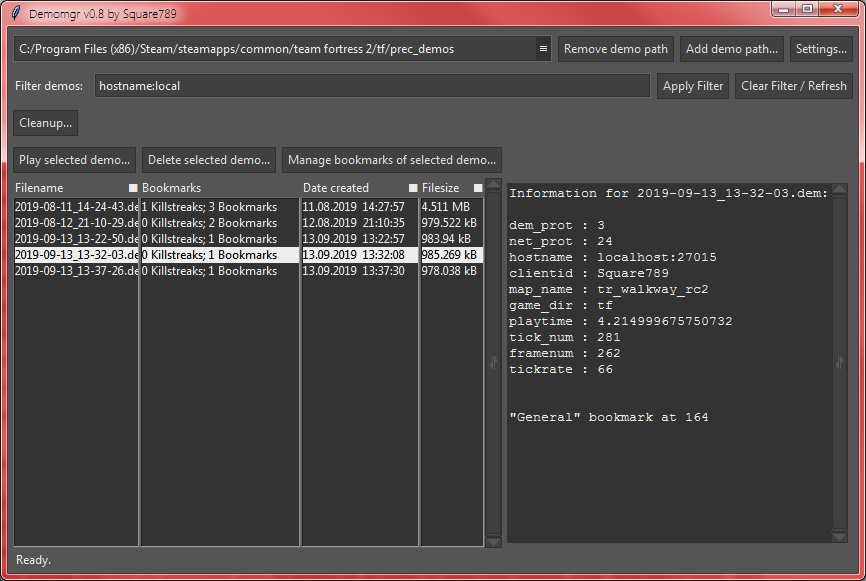
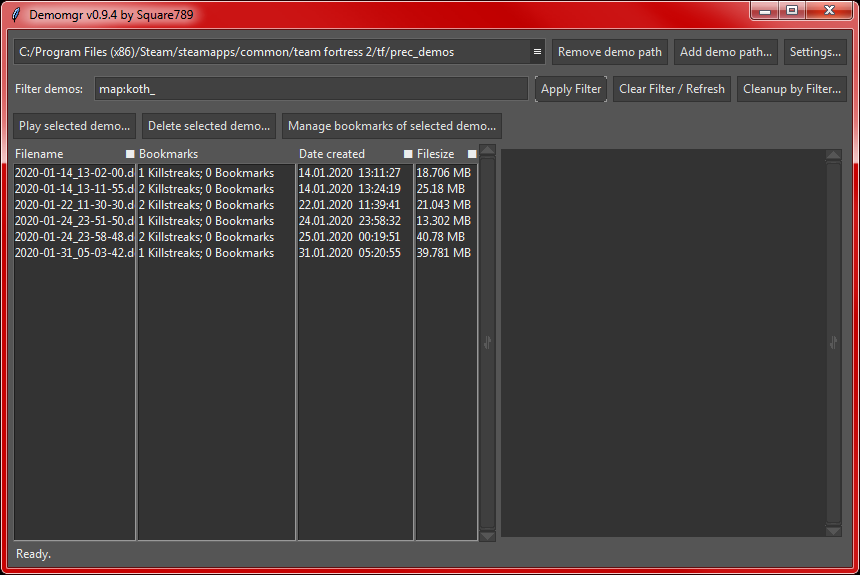
v0.9.4 - _events.txt fix
Fixed up documentation of threads
Some style fixes
Reading from _events.txt now works again
Added new image

Changed region(s): [[0.0, 0.0, 1.0, 1.0]]

diff --git a/source/threads/delete.py b/source/threads/delete.py
@@ -28,6 +28,7 @@ class ThreadDelete(_StoppableBaseThread):
 
 	def run(self):
 		evtpath = os.path.join(self.options["demodir"], CNST.EVENT_FILE)
+		tmpevtpath = os.path.join(self.options["demodir"], "." + CNST.EVENT_FILE)
 		errorsencountered = 0 #---Delete files
 		deletedfiles = 0
 		starttime = time.time()
@@ -44,53 +45,51 @@ class ThreadDelete(_StoppableBaseThread):
 				self.queue_out.put(("ConsoleInfo", "\nError deleting \"{}\": {} .".format(i, str(error))))
 	#-----------------------------------#
 		self.queue_out.put(("ConsoleInfo", "\n\nUpdating " + CNST.EVENT_FILE + "...")) #---Update eventfile; NOTE: NO CHECK FOR STOPREQUEST IN HERE; WILL ONLY ADD COMPLEXITY DUE TO HAVING TO CLOSE OPEN RESOURCES.
-		if os.path.exists(evtpath):
-			tmpevtpath = os.path.join(self.options["demodir"], "." + CNST.EVENT_FILE)
-			readeropen = False
-			writeropen = False
-			try:
-				reader = handle_ev.EventReader(evtpath, blocksz = self.options["cfg"]["evtblocksz"])
-				readeropen = True
-				writer = handle_ev.EventWriter(tmpevtpath, clearfile = True)
-				writeropen = True
-
-				if self.options["eventfileupdate"] == "passive":
-					while True: #NOTE: Could update those to be for loops, but I dont wanna break this
-						outchunk = next(reader)
-						regres = re.search(CNST.EVENTFILE_FILENAMEFORMAT, outchunk.content)
-						if regres: curchunkname = regres[0] + ".dem"
-						else: curchunkname = ""
-						if not curchunkname in self.options["filestodel"]:#create a new list of okay files or basically waste twice the time going through all the .json files?
-							writer.writechunk(outchunk)
-						if outchunk.message["last"]: break
-
-				elif self.options["eventfileupdate"] == "selectivemove":#Requires to have entire dir/actual files present in self.files;
-					okayfiles = set([j for i, j in enumerate(self.options["files"]) if not self.options["selected"][i]])
-					while True:
-						chunkexists = False
-						outchunk = next(reader)
-						regres = re.search(CNST.EVENTFILE_FILENAMEFORMAT, outchunk.content)
-						if regres: curchunkname = regres[0] + ".dem"
-						else: curchunkname = ""
-						if curchunkname in okayfiles:
-							okayfiles.remove(curchunkname)
-							chunkexists = True
-						if chunkexists:
-							writer.writechunk(outchunk)
-						if outchunk.message["last"]: break
-				reader.destroy()
-				writer.destroy()
-
-				os.remove(evtpath)
-				os.rename(tmpevtpath, evtpath)
-				self.queue_out.put( ("ConsoleInfo", " Done!") )
-			except (OSError, PermissionError) as error:
-				self.queue_out.put( ("ConsoleInfo", "\n<!!!>\nError updating eventfile:\n{}\n<!!!>".format(str(error))) )
-				if readeropen: reader.destroy()
-				if writeropen: writer.destroy()
+		if not os.path.exists(evtpath):
+			self.queue_out.put(("ConsoleInfo", " Event file not found, skipping."))
+			self.queue_out.put(("ConsoleInfo",
+				"\n\n==[Done]==\nTime taken: {} seconds\nFiles deleted: {}\nErrors encountered: {}\n==========".format(
+				round(time.time() - starttime, 3), deletedfiles, errorsencountered)))
+			self.queue_out.put(("Finish", 1)); return
+		readeropen = False
+		writeropen = False
+		try:
+			reader = handle_ev.EventReader(evtpath, blocksz = self.options["cfg"]["evtblocksz"])
+			readeropen = True
+			writer = handle_ev.EventWriter(tmpevtpath, clearfile = True)
+			writeropen = True
+		except (OSError, PermissionError) as error:
+			self.queue_out.put(("ConsoleInfo", "\n<!!!>\nError updating eventfile:\n{}\n<!!!>".format(str(error))))
+			if readeropen: reader.destroy()
+			if writeropen: writer.destroy()
 		else:
-			self.queue_out.put( ("ConsoleInfo", " Event file not found, skipping.") )
-		self.queue_out.put(("ConsoleInfo",
-			"\n\n==[Done]==\nTime taken: {} seconds\nFiles deleted: {}\nErrors encountered: {}\n==========".format(
-			round(time.time() - starttime, 3), deletedfiles, errorsencountered)))
-		self.queue_out.put(("Finish", 1))
+			if self.options["eventfileupdate"] == "passive":
+				while True: #NOTE: Could update those to be for loops, but I dont wanna break this
+					outchunk = next(reader)
+					regres = re.search(CNST.EVENTFILE_FILENAMEFORMAT, outchunk.content)
+					if regres: curchunkname = regres[0] + ".dem"
+					else: curchunkname = ""
+					if not curchunkname in self.options["filestodel"]:#create a new list of okay files or basically waste twice the time going through all the .json files?
+						writer.writechunk(outchunk)
+					if outchunk.message["last"]: break
+
+			elif self.options["eventfileupdate"] == "selectivemove":#Requires to have entire dir/actual files present in self.files;
+				okayfiles = set([j for i, j in enumerate(self.options["files"]) if not self.options["selected"][i]])
+				while True:
+					chunkexists = False
+					outchunk = next(reader)
+					regres = re.search(CNST.EVENTFILE_FILENAMEFORMAT, outchunk.content)
+					if regres: curchunkname = regres[0] + ".dem"
+					else: curchunkname = ""
+					if curchunkname in okayfiles:
+						okayfiles.remove(curchunkname)
+						chunkexists = True
+					if chunkexists:
+						writer.writechunk(outchunk)
+					if outchunk.message["last"]: break
+			reader.destroy()
+			writer.destroy()
+
+			os.remove(evtpath)
+			os.rename(tmpevtpath, evtpath)
+			self.queue_out.put(("ConsoleInfo", " Done!"))

diff --git a/source/dialogues/bookmark_setter.py b/source/dialogues/bookmark_setter.py
@@ -40,17 +40,17 @@ class BookmarkSetter(BaseDialog):
 		self.demo_dir = os.path.dirname(targetdemo)
 		self.bm_dat = bm_dat
 		self.styleobj = styleobj
-		
+
 		self.jsonmark_var = tk.BooleanVar()
 		self.eventsmark_var = tk.BooleanVar()
 
 		self.mark_thread = threading.Thread(target = lambda: False)
 		self.after_handler = None
 		self.queue_out = queue.Queue()
-		
+
 		self.result = 0
 		self.new_bm = None
-		
+
 		super().__init__(parent, "Insert bookmark...")
 
 	def body(self, parent):
@@ -80,8 +80,8 @@ class BookmarkSetter(BaseDialog):
 		widgetcontainer.rowconfigure(4, weight = 1)
 
 		self.listbox = mfl.MultiframeList(widgetcontainer, inicolumns = (
-			{"name":"Name", "col_id":"col_name"},
-			{"name":"Tick", "col_id":"col_tick"}))
+			{"name": "Name", "col_id": "col_name"},
+			{"name": "Tick", "col_id": "col_tick"}))
 		self.listbox.grid(row = 0, column = 0, rowspan = 2, sticky = "news")
 
 		add_bm_btn = ttk.Button(widgetcontainer, text = "Insert bookmark",
@@ -177,7 +177,7 @@ class BookmarkSetter(BaseDialog):
 			self.listbox.getcolumn("col_tick")))
 
 		self.savebtn.configure(text = "Cancel", command = self.__cancel_mark)
-		self.mark_thread = ThreadMarkDemo(None, self.queue_out,
+		self.mark_thread = ThreadMarkDemo(self.queue_out,
 			mark_json = mark_json, mark_events = mark_evts,
 			bookmarks = raw_bookmarks, targetdemo = self.targetdemo)
 		self.mark_thread.start()

diff --git a/source/threads/mark_demo.py b/source/threads/mark_demo.py
@@ -19,20 +19,24 @@ RE_LOGLINE_IS_BOOKMARK = re.compile(
 	r"\[\d\d\d\d/\d\d/\d\d \d\d:\d\d\] Bookmark ")
 
 class ThreadMarkDemo(_StoppableBaseThread):
-	'''Thread takes no queue_inp, but queue_out and as the following args:
-	mark_json <Bool>: Whether the .json file should be modified
-	mark_events <Bool>: Whether the _events.txt file should be modified
-	bookmarks <Tuple>: Bookmarks in the standard bookmark format.
-	targetdemo <Str>: Absolute path to the demo to be marked.
-	'''
-	def __init__(self, queue_in, queue_out, mark_json, mark_events, bookmarks,
+	"""
+	Thread for modifying the bookmarks of a demo.
+	"""
+	def __init__(self, queue_out, mark_json, mark_events, bookmarks,
 			targetdemo, *args, **kwargs):
+		"""
+		Thread takes an output queue and as the following args:
+		mark_json <Bool>: Whether the .json file should be modified
+		mark_events <Bool>: Whether the _events.txt file should be modified
+		bookmarks <Tuple>: Bookmarks in the standard bookmark format.
+		targetdemo <Str>: Absolute path to the demo to be marked.
+		"""
 		self.mark_json = mark_json
 		self.mark_events = mark_events
 		self.bookmarks = bookmarks
 		self.targetdemo = targetdemo
 
-		super().__init__(queue_in, queue_out, *args, **kwargs)
+		super().__init__(None, queue_out, *args, **kwargs)
 
 	def run(self):
 		if self.mark_json:

diff --git a/source/helpers.py b/source/helpers.py
@@ -103,20 +103,6 @@ def assignbookmarkdata(files, bookmarkdata):
 				assigned_dat[i] = j
 	return assigned_dat
 
-def formatbookmarkdata(filelist, bookmarkdata):
-	'''Converts bookmarkdata into a list of strings:
-	"X Bookmarks, Y Killstreaks". needs filelist to assign bookmarkdata to.
-	'''
-	assignedlogs = assignbookmarkdata(filelist, bookmarkdata)
-	listout = ["" for i in assignedlogs]
-	for i in range(len(assignedlogs)): #convert the correctly assigned logs ("", [], []) into information displaying strings
-		if assignedlogs[i] != ("", [], []):
-			listout[i] = str(len(assignedlogs[i][2])) + " Bookmarks;" \
-				" " + str(len(assignedlogs[i][1])) + " Killstreaks."
-		else:
-			listout[i] = "None"
-	return listout
-
 def format_bm_pair(toformat):
 	'''Formats a bookmark pair ((), ()) into a readable string.'''
 	if toformat is None:
@@ -124,7 +110,7 @@ def format_bm_pair(toformat):
 	return f"{len(toformat[0])} Killstreaks; {len(toformat[1])} Bookmarks"
 
 def frmd_label(parent, text,
-	styles = ("Framed.Contained.TFrame", "Labelframe.Contained.TLabel")):
+		styles = ("Framed.Contained.TFrame", "Labelframe.Contained.TLabel")):
 	'''Returns a ttk.Frame object containing a ttk.Label with text specified
 	that is supposed to be integrated into a Labelframe.
 	styles defaults to a tuple of ("Framed.Contained.TFrame",

diff --git a/source/threads/read_folder.py b/source/threads/read_folder.py
@@ -71,7 +71,7 @@ class ThreadReadFolder(_StoppableBaseThread):
 			try:
 				h = open(os.path.join(self.options["targetdir"], CNST.EVENT_FILE), "r")
 				handleopen = True
-				bookmarklist = read_events(h, self.options["cfg"]["evtblocksz"])
+				logchunk_list = read_events(h, self.options["cfg"]["evtblocksz"])
 				h.close()
 			except Exception as exc:
 				if handleopen: h.close()

diff --git a/source/main_app.py b/source/main_app.py
@@ -28,7 +28,7 @@ from source.helpers import (formatdate, readdemoheader, convertunit, format_bm_p
 from source.dialogues import *
 from source.threads import ThreadFilter, ThreadReadFolder
 
-__version__ = "0.9.3"
+__version__ = "0.9.4"
 __author__ = "Square789"
 
 RCB = "3"

diff --git a/demomgr.py b/demomgr.py
@@ -1,5 +1,5 @@
 #!/usr/bin/env python3
-#Demomgr v0.9.3
+#Demomgr v0.9.4
 #Created by Square789, 2018 - 2020
 
 from source.main_app import MainApp

diff --git a/README.md b/README.md
@@ -2,7 +2,7 @@
 Demomgr is a python script designed to keep track of, cleanup and play demo files from the Source video game Team Fortress 2, released by Valve Corporation in 2007.
 
 > ![Main program window](https://github.com/Square789/Demomgr/blob/master/img0.PNG)  
-> _A folder, filtered to only include demos recorded on localhost, one demo selected._
+> _A folder, filtered to only include demos taking place on koth maps._
 ### Current features:
 * List Demos, their filesize, creation date and the amount of Killstreaks/Bookmarks
   * View demo header information
